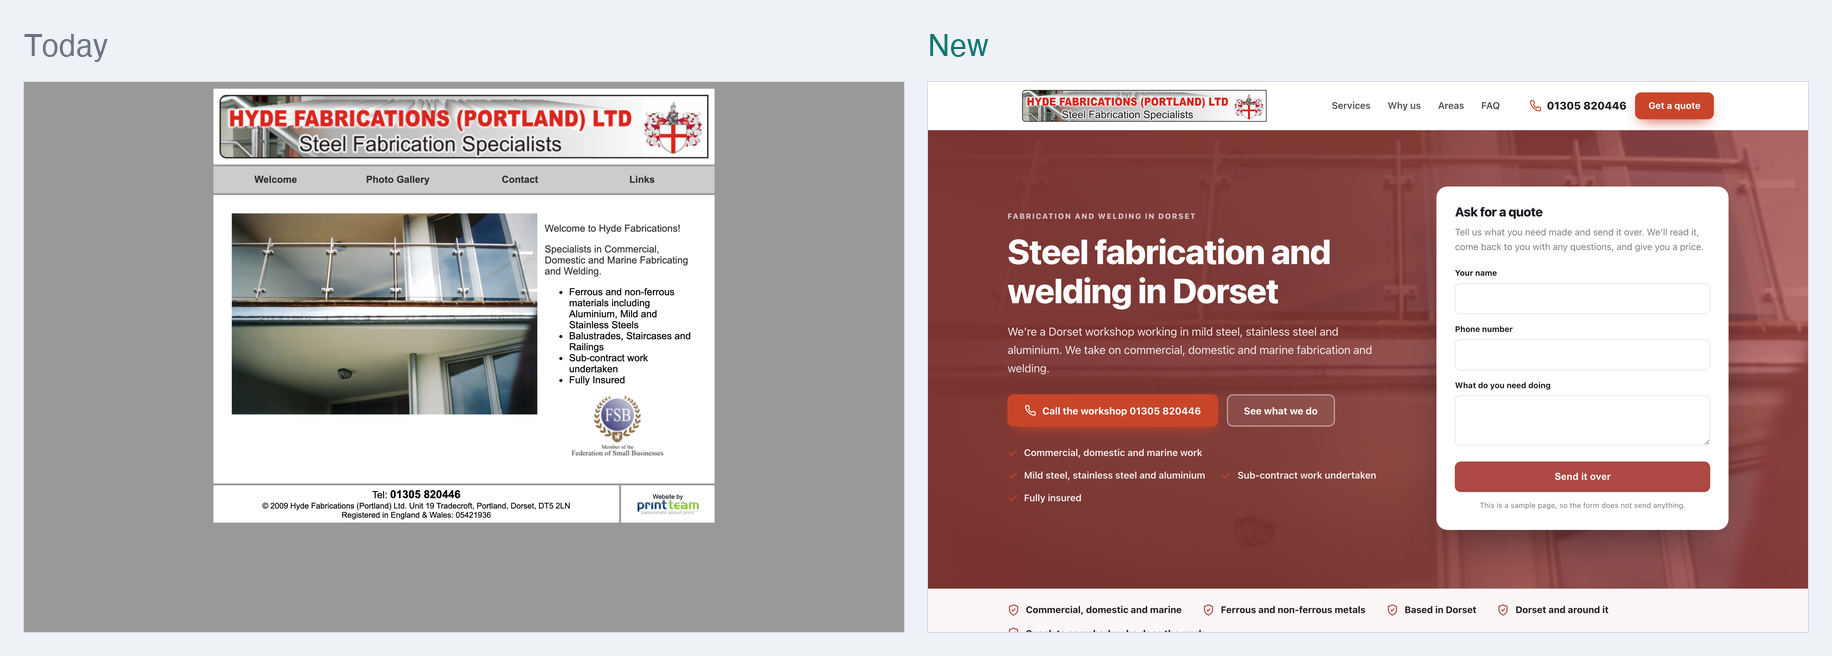
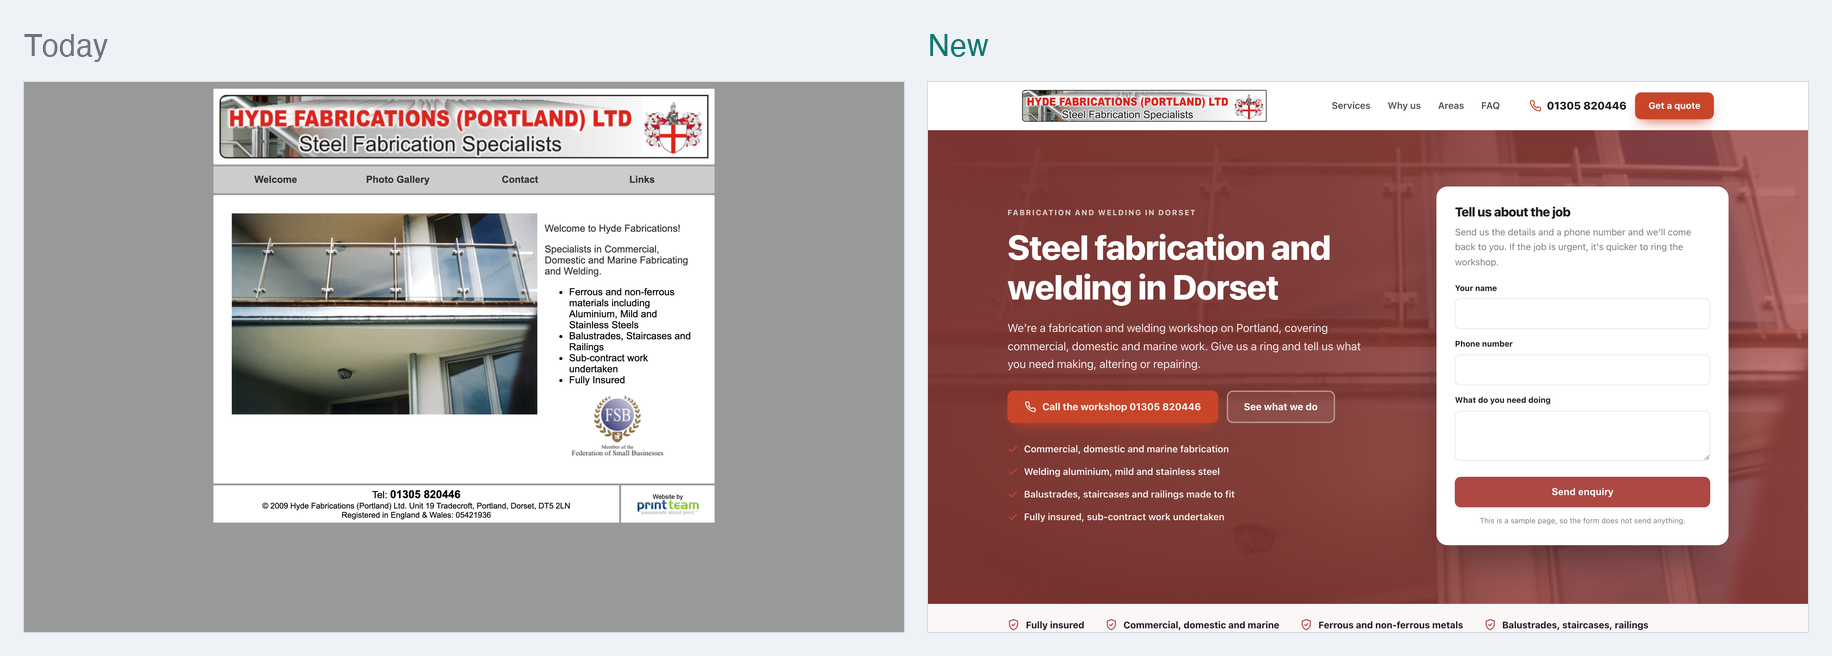
One page sample for Hyde Fabrications Ltd

diff --git a/docs/2bf4139ff9/index.html b/docs/2bf4139ff9/index.html
@@ -4,14 +4,14 @@
 <meta charset="utf-8">
 <meta name="viewport" content="width=device-width, initial-scale=1">
 <meta name="robots" content="noindex,nofollow">
-<meta name="aso-build" content="52bd52a461d7">
-<title>Steel Fabrication in Dorset | Hyde Fabrications Ltd</title>
-<meta name="description" content="Steel fabrication and welding in Dorset. Balustrades, staircases and railings in mild steel, stainless steel and aluminium. Fully insured. Call for a quote.">
+<meta name="aso-build" content="81522653379e">
+<title>Steel Fabrication in Portland, Dorset | Hyde Fabrications</title>
+<meta name="description" content="Commercial, domestic and marine fabrication and welding in Portland, Dorset. Balustrades, staircases and railings in aluminium, mild and stainless steel.">
 <link rel="canonical" href="https://markygff.github.io/aso-mockups/2bf4139ff9/">
 <meta property="og:type" content="website">
 <meta property="og:site_name" content="Hyde Fabrications Ltd">
-<meta property="og:title" content="Steel Fabrication in Dorset | Hyde Fabrications Ltd">
-<meta property="og:description" content="Steel fabrication and welding in Dorset. Balustrades, staircases and railings in mild steel, stainless steel and aluminium. Fully insured. Call for a quote.">
+<meta property="og:title" content="Steel Fabrication in Portland, Dorset | Hyde Fabrications">
+<meta property="og:description" content="Commercial, domestic and marine fabrication and welding in Portland, Dorset. Balustrades, staircases and railings in aluminium, mild and stainless steel.">
 <meta property="og:url" content="https://markygff.github.io/aso-mockups/2bf4139ff9/">
 <meta property="og:image" content="img/t01.jpg"><meta name="twitter:card" content="summary_large_image">
 <style>
@@ -219,17 +219,17 @@ p{margin:0}
     <div>
       <p class="eyebrow">Fabrication and welding in Dorset</p>
       <h1>Steel fabrication and welding in Dorset</h1>
-      <p class="hero-sub">We&#39;re a Dorset workshop working in mild steel, stainless steel and aluminium. We take on commercial, domestic and marine fabrication and welding.</p>
+      <p class="hero-sub">We&#39;re a fabrication and welding workshop on Portland, covering commercial, domestic and marine work. Give us a ring and tell us what you need making, altering or repairing.</p>
       <div class="hero-actions">
         <a class="btn btn-accent" href="tel:+441305820446"><svg viewBox="0 0 24 24" fill="none" stroke="currentColor" stroke-width="2" stroke-linecap="round" stroke-linejoin="round" aria-hidden="true"><path d="M22 16.9v3a2 2 0 0 1-2.2 2 19.8 19.8 0 0 1-8.6-3.1 19.5 19.5 0 0 1-6-6 19.8 19.8 0 0 1-3.1-8.7A2 2 0 0 1 4.1 2h3a2 2 0 0 1 2 1.7c.1 1 .4 1.9.7 2.8a2 2 0 0 1-.5 2.1L8.1 9.9a16 16 0 0 0 6 6l1.3-1.2a2 2 0 0 1 2.1-.5c.9.3 1.8.6 2.8.7a2 2 0 0 1 1.7 2z"/></svg>Call the workshop 01305 820446</a>
         <a class="btn btn-ghost" href="#services">See what we do</a>
       </div>
       <ul class="hero-bullets">
-<li><svg viewBox="0 0 24 24" fill="none" stroke="currentColor" stroke-width="2.4" stroke-linecap="round" stroke-linejoin="round" aria-hidden="true"><path d="M20 6 9 17l-5-5"/></svg><span>Commercial, domestic and marine work</span></li><li><svg viewBox="0 0 24 24" fill="none" stroke="currentColor" stroke-width="2.4" stroke-linecap="round" stroke-linejoin="round" aria-hidden="true"><path d="M20 6 9 17l-5-5"/></svg><span>Mild steel, stainless steel and aluminium</span></li><li><svg viewBox="0 0 24 24" fill="none" stroke="currentColor" stroke-width="2.4" stroke-linecap="round" stroke-linejoin="round" aria-hidden="true"><path d="M20 6 9 17l-5-5"/></svg><span>Sub-contract work undertaken</span></li><li><svg viewBox="0 0 24 24" fill="none" stroke="currentColor" stroke-width="2.4" stroke-linecap="round" stroke-linejoin="round" aria-hidden="true"><path d="M20 6 9 17l-5-5"/></svg><span>Fully insured</span></li>      </ul>
+<li><svg viewBox="0 0 24 24" fill="none" stroke="currentColor" stroke-width="2.4" stroke-linecap="round" stroke-linejoin="round" aria-hidden="true"><path d="M20 6 9 17l-5-5"/></svg><span>Commercial, domestic and marine fabrication</span></li><li><svg viewBox="0 0 24 24" fill="none" stroke="currentColor" stroke-width="2.4" stroke-linecap="round" stroke-linejoin="round" aria-hidden="true"><path d="M20 6 9 17l-5-5"/></svg><span>Welding aluminium, mild and stainless steel</span></li><li><svg viewBox="0 0 24 24" fill="none" stroke="currentColor" stroke-width="2.4" stroke-linecap="round" stroke-linejoin="round" aria-hidden="true"><path d="M20 6 9 17l-5-5"/></svg><span>Balustrades, staircases and railings made to fit</span></li><li><svg viewBox="0 0 24 24" fill="none" stroke="currentColor" stroke-width="2.4" stroke-linecap="round" stroke-linejoin="round" aria-hidden="true"><path d="M20 6 9 17l-5-5"/></svg><span>Fully insured, sub-contract work undertaken</span></li>      </ul>
     </div>
     <div class="quote-card" id="quote">
-      <h3>Ask for a quote</h3>
-      <p class="lead">Tell us what you need made and send it over. We&#39;ll read it, come back to you with any questions, and give you a price.</p>
+      <h3>Tell us about the job</h3>
+      <p class="lead">Send us the details and a phone number and we&#39;ll come back to you. If the job is urgent, it&#39;s quicker to ring the workshop.</p>
       <form action="#" onsubmit="return false" novalidate>
         <div class="field"><label for="h-name">Your name</label>
           <input id="h-name" name="name" type="text" autocomplete="name"></div>
@@ -237,7 +237,7 @@ p{margin:0}
           <input id="h-phone" name="phone" type="tel" autocomplete="tel"></div>
         <div class="field"><label for="h-job">What do you need doing</label>
           <textarea id="h-job" name="job"></textarea></div>
-        <button class="btn btn-primary" type="button">Send it over</button>
+        <button class="btn btn-primary" type="button">Send enquiry</button>
       </form>
       <p class="sample-note">This is a sample page, so the form does not send anything.</p>
     </div>
@@ -246,11 +246,11 @@ p{margin:0}
 
 <div class="trust">
   <div class="wrap trust-in">
+    <div class="trust-item"><svg viewBox="0 0 24 24" fill="none" stroke="currentColor" stroke-width="2" stroke-linecap="round" stroke-linejoin="round" aria-hidden="true"><path d="M12 2 4 5v6c0 5 3.4 9.4 8 11 4.6-1.6 8-6 8-11V5z"/><path d="m9 12 2 2 4-4"/></svg><span>Fully insured</span></div>
     <div class="trust-item"><svg viewBox="0 0 24 24" fill="none" stroke="currentColor" stroke-width="2" stroke-linecap="round" stroke-linejoin="round" aria-hidden="true"><path d="M12 2 4 5v6c0 5 3.4 9.4 8 11 4.6-1.6 8-6 8-11V5z"/><path d="m9 12 2 2 4-4"/></svg><span>Commercial, domestic and marine</span></div>
     <div class="trust-item"><svg viewBox="0 0 24 24" fill="none" stroke="currentColor" stroke-width="2" stroke-linecap="round" stroke-linejoin="round" aria-hidden="true"><path d="M12 2 4 5v6c0 5 3.4 9.4 8 11 4.6-1.6 8-6 8-11V5z"/><path d="m9 12 2 2 4-4"/></svg><span>Ferrous and non-ferrous metals</span></div>
-    <div class="trust-item"><svg viewBox="0 0 24 24" fill="none" stroke="currentColor" stroke-width="2" stroke-linecap="round" stroke-linejoin="round" aria-hidden="true"><path d="M12 2 4 5v6c0 5 3.4 9.4 8 11 4.6-1.6 8-6 8-11V5z"/><path d="m9 12 2 2 4-4"/></svg><span>Based in Dorset</span></div>
-    <div class="trust-item"><svg viewBox="0 0 24 24" fill="none" stroke="currentColor" stroke-width="2" stroke-linecap="round" stroke-linejoin="round" aria-hidden="true"><path d="M12 2 4 5v6c0 5 3.4 9.4 8 11 4.6-1.6 8-6 8-11V5z"/><path d="m9 12 2 2 4-4"/></svg><span>Dorset and around it</span></div>
-    <div class="trust-item"><svg viewBox="0 0 24 24" fill="none" stroke="currentColor" stroke-width="2" stroke-linecap="round" stroke-linejoin="round" aria-hidden="true"><path d="M12 2 4 5v6c0 5 3.4 9.4 8 11 4.6-1.6 8-6 8-11V5z"/><path d="m9 12 2 2 4-4"/></svg><span>Speak to somebody who does the work</span></div>
+    <div class="trust-item"><svg viewBox="0 0 24 24" fill="none" stroke="currentColor" stroke-width="2" stroke-linecap="round" stroke-linejoin="round" aria-hidden="true"><path d="M12 2 4 5v6c0 5 3.4 9.4 8 11 4.6-1.6 8-6 8-11V5z"/><path d="m9 12 2 2 4-4"/></svg><span>Balustrades, staircases, railings</span></div>
+    <div class="trust-item"><svg viewBox="0 0 24 24" fill="none" stroke="currentColor" stroke-width="2" stroke-linecap="round" stroke-linejoin="round" aria-hidden="true"><path d="M12 2 4 5v6c0 5 3.4 9.4 8 11 4.6-1.6 8-6 8-11V5z"/><path d="m9 12 2 2 4-4"/></svg><span>Sub-contract work undertaken</span></div>
   </div>
 </div>
 
@@ -258,29 +258,29 @@ p{margin:0}
   <div class="wrap">
     <div class="section-head">
       <p class="eyebrow">What we do</p>
-      <h2>Fabrication and welding services</h2>
-      <p>Here&#39;s what we make, and where our metal comes from. If your job isn&#39;t listed, ask us and we&#39;ll tell you whether we can do it.</p>
+      <h2>Fabrication and welding we take on</h2>
+      <p>We work in ferrous and non-ferrous metals, from one-off repairs to sub-contract runs. Tell us the job and we&#39;ll tell you straight whether it&#39;s one for us.</p>
     </div>
     <div class="grid grid-3">
       <article class="card">
         <div class="icon"><svg viewBox="0 0 24 24" fill="none" stroke="currentColor" stroke-width="2" stroke-linecap="round" stroke-linejoin="round" aria-hidden="true"><path d="M14.7 6.3a4 4 0 0 0 5.3 5.3l-8 8a3 3 0 0 1-4.2-4.2z"/><path d="m14.7 6.3 3-3"/></svg></div>
-        <h3>Balustrades, Staircases and Railings</h3>
-        <p>Balustrades, staircases and railings in mild steel, stainless steel or aluminium, made to your sizes and fitted on site.</p>
+        <h3>Commercial, Domestic and Marine Fabricating</h3>
+        <p>Fabrication and welding for businesses, homes and boats. Come to us for new metalwork, alterations and repairs.</p>
       </article>
       <article class="card">
         <div class="icon"><svg viewBox="0 0 24 24" fill="none" stroke="currentColor" stroke-width="2" stroke-linecap="round" stroke-linejoin="round" aria-hidden="true"><path d="M13 2 4 14h7l-1 8 9-12h-7z"/></svg></div>
-        <h3>Photo Gallery</h3>
-        <p>Have a look at past work before you ring. The gallery shows fabrication we&#39;ve made and fitted in Dorset.</p>
+        <h3>Balustrades, Staircases and Railings</h3>
+        <p>Balustrades, staircases and railings made to fit. Useful when a stair needs a handrail, or a balcony or terrace needs guarding properly.</p>
       </article>
       <article class="card">
         <div class="icon"><svg viewBox="0 0 24 24" fill="none" stroke="currentColor" stroke-width="2" stroke-linecap="round" stroke-linejoin="round" aria-hidden="true"><path d="M3 10.5 12 3l9 7.5"/><path d="M5 9.5V21h14V9.5"/><path d="M10 21v-6h4v6"/></svg></div>
-        <h3>Parker Steel</h3>
-        <p>ParkerSteel distribute to industry and supply steel and non-ferrous metals to the trade and DIY. They&#39;re one of the suppliers we list.</p>
+        <h3>Ferrous and non-ferrous materials including</h3>
+        <p>We work in aluminium, mild steel and stainless steel, so a job in salt air and a job indoors each get the right metal.</p>
       </article>
       <article class="card">
         <div class="icon"><svg viewBox="0 0 24 24" fill="none" stroke="currentColor" stroke-width="2" stroke-linecap="round" stroke-linejoin="round" aria-hidden="true"><path d="M4 20 15 9"/><path d="m14 4 6 6-3 3-6-6z"/><path d="m3 15 6 6"/></svg></div>
-        <h3>www.parkersteel.co.uk</h3>
-        <p>The ParkerSteel website, on our links page for anyone buying steel or non-ferrous metals online at trade prices.</p>
+        <h3>Sub-contract work undertaken</h3>
+        <p>Sub-contract fabrication and welding for other trades and firms. Handy when your own shop is full, or a job needs metalwork you don&#39;t cover.</p>
       </article>
     </div>
   </div>
@@ -296,29 +296,29 @@ p{margin:0}
       <div class="why-item">
         <div class="why-badge">1</div>
         <div>
-          <h3>Commercial, domestic and marine</h3>
-          <p>All three come out of the same workshop, so a house handrail and a boatyard job get the same welder.</p>
+          <h3>A proper workshop</h3>
+          <p>We fabricate on Portland, so work gets made and finished in one place rather than passed around.</p>
         </div>
       </div>
       <div class="why-item">
         <div class="why-badge">2</div>
         <div>
-          <h3>Ferrous and non-ferrous</h3>
-          <p>We work in aluminium, mild steel and stainless steel, ferrous and non-ferrous, so the metal suits the job.</p>
+          <h3>Fully insured</h3>
+          <p>We&#39;re fully insured for the work we take on, commercial, domestic and marine alike.</p>
         </div>
       </div>
       <div class="why-item">
         <div class="why-badge">3</div>
         <div>
-          <h3>Fully insured</h3>
-          <p>We&#39;re fully insured, which matters on site work and on jobs for other trades.</p>
+          <h3>The right metal for the job</h3>
+          <p>Ferrous and non-ferrous, aluminium through to stainless steel. We&#39;ll tell you which one suits the job and why.</p>
         </div>
       </div>
       <div class="why-item">
         <div class="why-badge">4</div>
         <div>
-          <h3>Sub-contract work</h3>
-          <p>We take on sub-contract work for builders and other trades who need fabricating and welding done.</p>
+          <h3>Sub-contract welcome</h3>
+          <p>Other trades and fabricators use us for overflow work and for the metalwork they don&#39;t do themselves.</p>
         </div>
       </div>
     </div>
@@ -331,7 +331,7 @@ p{margin:0}
     <div class="section-head">
       <p class="eyebrow">Where we work</p>
       <h2>Fabrication across Dorset</h2>
-      <p>We cover Dorset. If you&#39;re just outside it, ask us and we&#39;ll tell you straight away whether we can help.</p>
+      <p>We&#39;re based on Portland and take work on across Dorset. Ring us with the postcode and the job and we&#39;ll say whether we can get to you.</p>
     </div>
     <ul class="area-list">
 <li>Dorset</li>    </ul>
@@ -345,24 +345,24 @@ p{margin:0}
       <h2>Common questions</h2>
     </div>
     <div class="faq-item">
-      <h3><span>Q.</span>What areas do you cover for steel fabrication?</h3>
-      <p>We cover Dorset. If you&#39;re near the edge of it, give us a ring with the job and the postcode and we&#39;ll tell you whether we can get to you.</p>
+      <h3><span>Q.</span>What areas do you cover?</h3>
+      <p>We&#39;re based on Portland and work across Dorset. Give us a ring with the postcode and a description of the job and we&#39;ll tell you whether we can take it on.</p>
     </div>
     <div class="faq-item">
-      <h3><span>Q.</span>Do you make balustrades and staircases to measure?</h3>
-      <p>Yes. Balustrades, staircases and railings are made to your sizes in mild steel, stainless steel or aluminium, then fitted.</p>
+      <h3><span>Q.</span>Can you make a balustrade or staircase to measure?</h3>
+      <p>Yes, balustrades, staircases and railings are regular work for us. We can make them in mild steel, stainless steel or aluminium to suit where they&#39;re going.</p>
+    </div>
+    <div class="faq-item">
+      <h3><span>Q.</span>How quickly can you start a job?</h3>
+      <p>It depends what&#39;s already in the workshop, so we won&#39;t put a promise on a web page. Call us and we&#39;ll tell you honestly when we could fit the work in.</p>
+    </div>
+    <div class="faq-item">
+      <h3><span>Q.</span>Do you quote before starting work?</h3>
+      <p>Yes. Send the details or your drawings through the form below, or call us, and we&#39;ll come back to you with a price before any work begins.</p>
     </div>
     <div class="faq-item">
       <h3><span>Q.</span>What metals do you work with?</h3>
-      <p>Ferrous and non-ferrous, including aluminium, mild steel and stainless steel. Tell us what the job is and we&#39;ll advise on the metal.</p>
-    </div>
-    <div class="faq-item">
-      <h3><span>Q.</span>Do you take on sub-contract work for builders?</h3>
-      <p>Yes, we undertake sub-contract work. Send the drawings or the sizes and we&#39;ll tell you if it&#39;s something we can take on.</p>
-    </div>
-    <div class="faq-item">
-      <h3><span>Q.</span>How much does a steel balustrade or staircase cost?</h3>
-      <p>There&#39;s no set price, because every job is a different size and metal. Send us the measurements and what you want it to look like, and we&#39;ll come back with a price.</p>
+      <p>Ferrous and non-ferrous metals, including aluminium, mild steel and stainless steel. Describe the job and we&#39;ll tell you which metal we&#39;d use and why.</p>
     </div>
   </div>
 </section>
@@ -371,8 +371,8 @@ p{margin:0}
   <div class="wrap contact-in">
     <div>
       <p class="eyebrow">Get in touch</p>
-      <h2 style="font-size:clamp(1.75rem,3.2vw,2.4rem);margin-bottom:14px">Ask for a quote</h2>
-      <p style="color:var(--muted);font-size:1.06rem">Tell us what you need made and send it over. We&#39;ll read it, come back to you with any questions, and give you a price.</p>
+      <h2 style="font-size:clamp(1.75rem,3.2vw,2.4rem);margin-bottom:14px">Tell us about the job</h2>
+      <p style="color:var(--muted);font-size:1.06rem">Send us the details and a phone number and we&#39;ll come back to you. If the job is urgent, it&#39;s quicker to ring the workshop.</p>
       <div class="contact-facts">
         <div class="fact-row"><svg viewBox="0 0 24 24" fill="none" stroke="currentColor" stroke-width="2" stroke-linecap="round" stroke-linejoin="round" aria-hidden="true"><path d="M22 16.9v3a2 2 0 0 1-2.2 2 19.8 19.8 0 0 1-8.6-3.1 19.5 19.5 0 0 1-6-6 19.8 19.8 0 0 1-3.1-8.7A2 2 0 0 1 4.1 2h3a2 2 0 0 1 2 1.7c.1 1 .4 1.9.7 2.8a2 2 0 0 1-.5 2.1L8.1 9.9a16 16 0 0 0 6 6l1.3-1.2a2 2 0 0 1 2.1-.5c.9.3 1.8.6 2.8.7a2 2 0 0 1 1.7 2z"/></svg><div><strong>Phone</strong>
           <a href="tel:+441305820446">01305 820446</a></div></div>
@@ -392,12 +392,12 @@ p{margin:0}
           <input id="c-email" name="email" type="email" autocomplete="email"></div>
         <div class="field"><label for="c-service">What do you need</label>
           <select id="c-service" name="service">
-<option>Balustrades, Staircases and Railings</option><option>Photo Gallery</option><option>Parker Steel</option><option>www.parkersteel.co.uk</option>            <option>Something else</option>
+<option>Commercial, Domestic and Marine Fabricating</option><option>Balustrades, Staircases and Railings</option><option>Ferrous and non-ferrous materials including</option><option>Sub-contract work undertaken</option>            <option>Something else</option>
           </select></div>
         <div class="field"><label for="c-msg">Tell us about the job</label>
           <textarea id="c-msg" name="message"></textarea></div>
         <button class="btn btn-accent" type="button" style="width:100%;justify-content:center">
-          Send it over</button>
+          Send enquiry</button>
         <p class="sample-note">Sample page. Nothing is sent and nothing is stored.</p>
       </form>
     </div>
@@ -409,11 +409,11 @@ p{margin:0}
     <div class="footer-in">
       <div>
         <div class="footer-brand">Hyde Fabrications Ltd</div>
-        <p>Fabrication and welding in Dorset, in mild steel, stainless steel and aluminium.</p>
+        <p>Steel and metal fabrication, welding and balustrades, based on Portland and working across Dorset.</p>
 <p style="margin-top:14px"><a href="tel:+441305820446">01305 820446</a></p>      </div>
       <div>
         <h4>Services</h4>
-        <ul><li>Balustrades, Staircases and Railings</li><li>Photo Gallery</li><li>Parker Steel</li><li>www.parkersteel.co.uk</li></ul>
+        <ul><li>Commercial, Domestic and Marine Fabricating</li><li>Balustrades, Staircases and Railings</li><li>Ferrous and non-ferrous materials including</li><li>Sub-contract work undertaken</li></ul>
       </div>
       <div>
         <h4>Areas</h4>
@@ -433,7 +433,7 @@ p{margin:0}
     "@type": "GeneralContractor",
     "name": "Hyde Fabrications Ltd",
     "url": "https://markygff.github.io/aso-mockups/2bf4139ff9/",
-    "description": "Steel fabrication and welding in Dorset. Balustrades, staircases and railings in mild steel, stainless steel and aluminium. Fully insured. Call for a quote.",
+    "description": "Commercial, domestic and marine fabrication and welding in Portland, Dorset. Balustrades, staircases and railings in aluminium, mild and stainless steel.",
     "telephone": "01305 820446",
     "address": {
       "@type": "PostalAddress",
@@ -453,6 +453,13 @@ p{margin:0}
         "@type": "Offer",
         "itemOffered": {
           "@type": "Service",
+          "name": "Commercial, Domestic and Marine Fabricating"
+        }
+      },
+      {
+        "@type": "Offer",
+        "itemOffered": {
+          "@type": "Service",
           "name": "Balustrades, Staircases and Railings"
         }
       },
@@ -460,21 +467,14 @@ p{margin:0}
         "@type": "Offer",
         "itemOffered": {
           "@type": "Service",
-          "name": "Photo Gallery"
+          "name": "Ferrous and non-ferrous materials including"
         }
       },
       {
         "@type": "Offer",
         "itemOffered": {
           "@type": "Service",
-          "name": "Parker Steel"
-        }
-      },
-      {
-        "@type": "Offer",
-        "itemOffered": {
-          "@type": "Service",
-          "name": "www.parkersteel.co.uk"
+          "name": "Sub-contract work undertaken"
         }
       }
     ]
@@ -485,18 +485,34 @@ p{margin:0}
     "mainEntity": [
       {
         "@type": "Question",
-        "name": "What areas do you cover for steel fabrication?",
+        "name": "What areas do you cover?",
         "acceptedAnswer": {
           "@type": "Answer",
-          "text": "We cover Dorset. If you're near the edge of it, give us a ring with the job and the postcode and we'll tell you whether we can get to you."
+          "text": "We're based on Portland and work across Dorset. Give us a ring with the postcode and a description of the job and we'll tell you whether we can take it on."
         }
       },
       {
         "@type": "Question",
-        "name": "Do you make balustrades and staircases to measure?",
+        "name": "Can you make a balustrade or staircase to measure?",
         "acceptedAnswer": {
           "@type": "Answer",
-          "text": "Yes. Balustrades, staircases and railings are made to your sizes in mild steel, stainless steel or aluminium, then fitted."
+          "text": "Yes, balustrades, staircases and railings are regular work for us. We can make them in mild steel, stainless steel or aluminium to suit where they're going."
+        }
+      },
+      {
+        "@type": "Question",
+        "name": "How quickly can you start a job?",
+        "acceptedAnswer": {
+          "@type": "Answer",
+          "text": "It depends what's already in the workshop, so we won't put a promise on a web page. Call us and we'll tell you honestly when we could fit the work in."
+        }
+      },
+      {
+        "@type": "Question",
+        "name": "Do you quote before starting work?",
+        "acceptedAnswer": {
+          "@type": "Answer",
+          "text": "Yes. Send the details or your drawings through the form below, or call us, and we'll come back to you with a price before any work begins."
         }
       },
       {
@@ -504,23 +520,7 @@ p{margin:0}
         "name": "What metals do you work with?",
         "acceptedAnswer": {
           "@type": "Answer",
-          "text": "Ferrous and non-ferrous, including aluminium, mild steel and stainless steel. Tell us what the job is and we'll advise on the metal."
-        }
-      },
-      {
-        "@type": "Question",
-        "name": "Do you take on sub-contract work for builders?",
-        "acceptedAnswer": {
-          "@type": "Answer",
-          "text": "Yes, we undertake sub-contract work. Send the drawings or the sizes and we'll tell you if it's something we can take on."
-        }
-      },
-      {
-        "@type": "Question",
-        "name": "How much does a steel balustrade or staircase cost?",
-        "acceptedAnswer": {
-          "@type": "Answer",
-          "text": "There's no set price, because every job is a different size and metal. Send us the measurements and what you want it to look like, and we'll come back with a price."
+          "text": "Ferrous and non-ferrous metals, including aluminium, mild steel and stainless steel. Describe the job and we'll tell you which metal we'd use and why."
         }
       }
     ]
